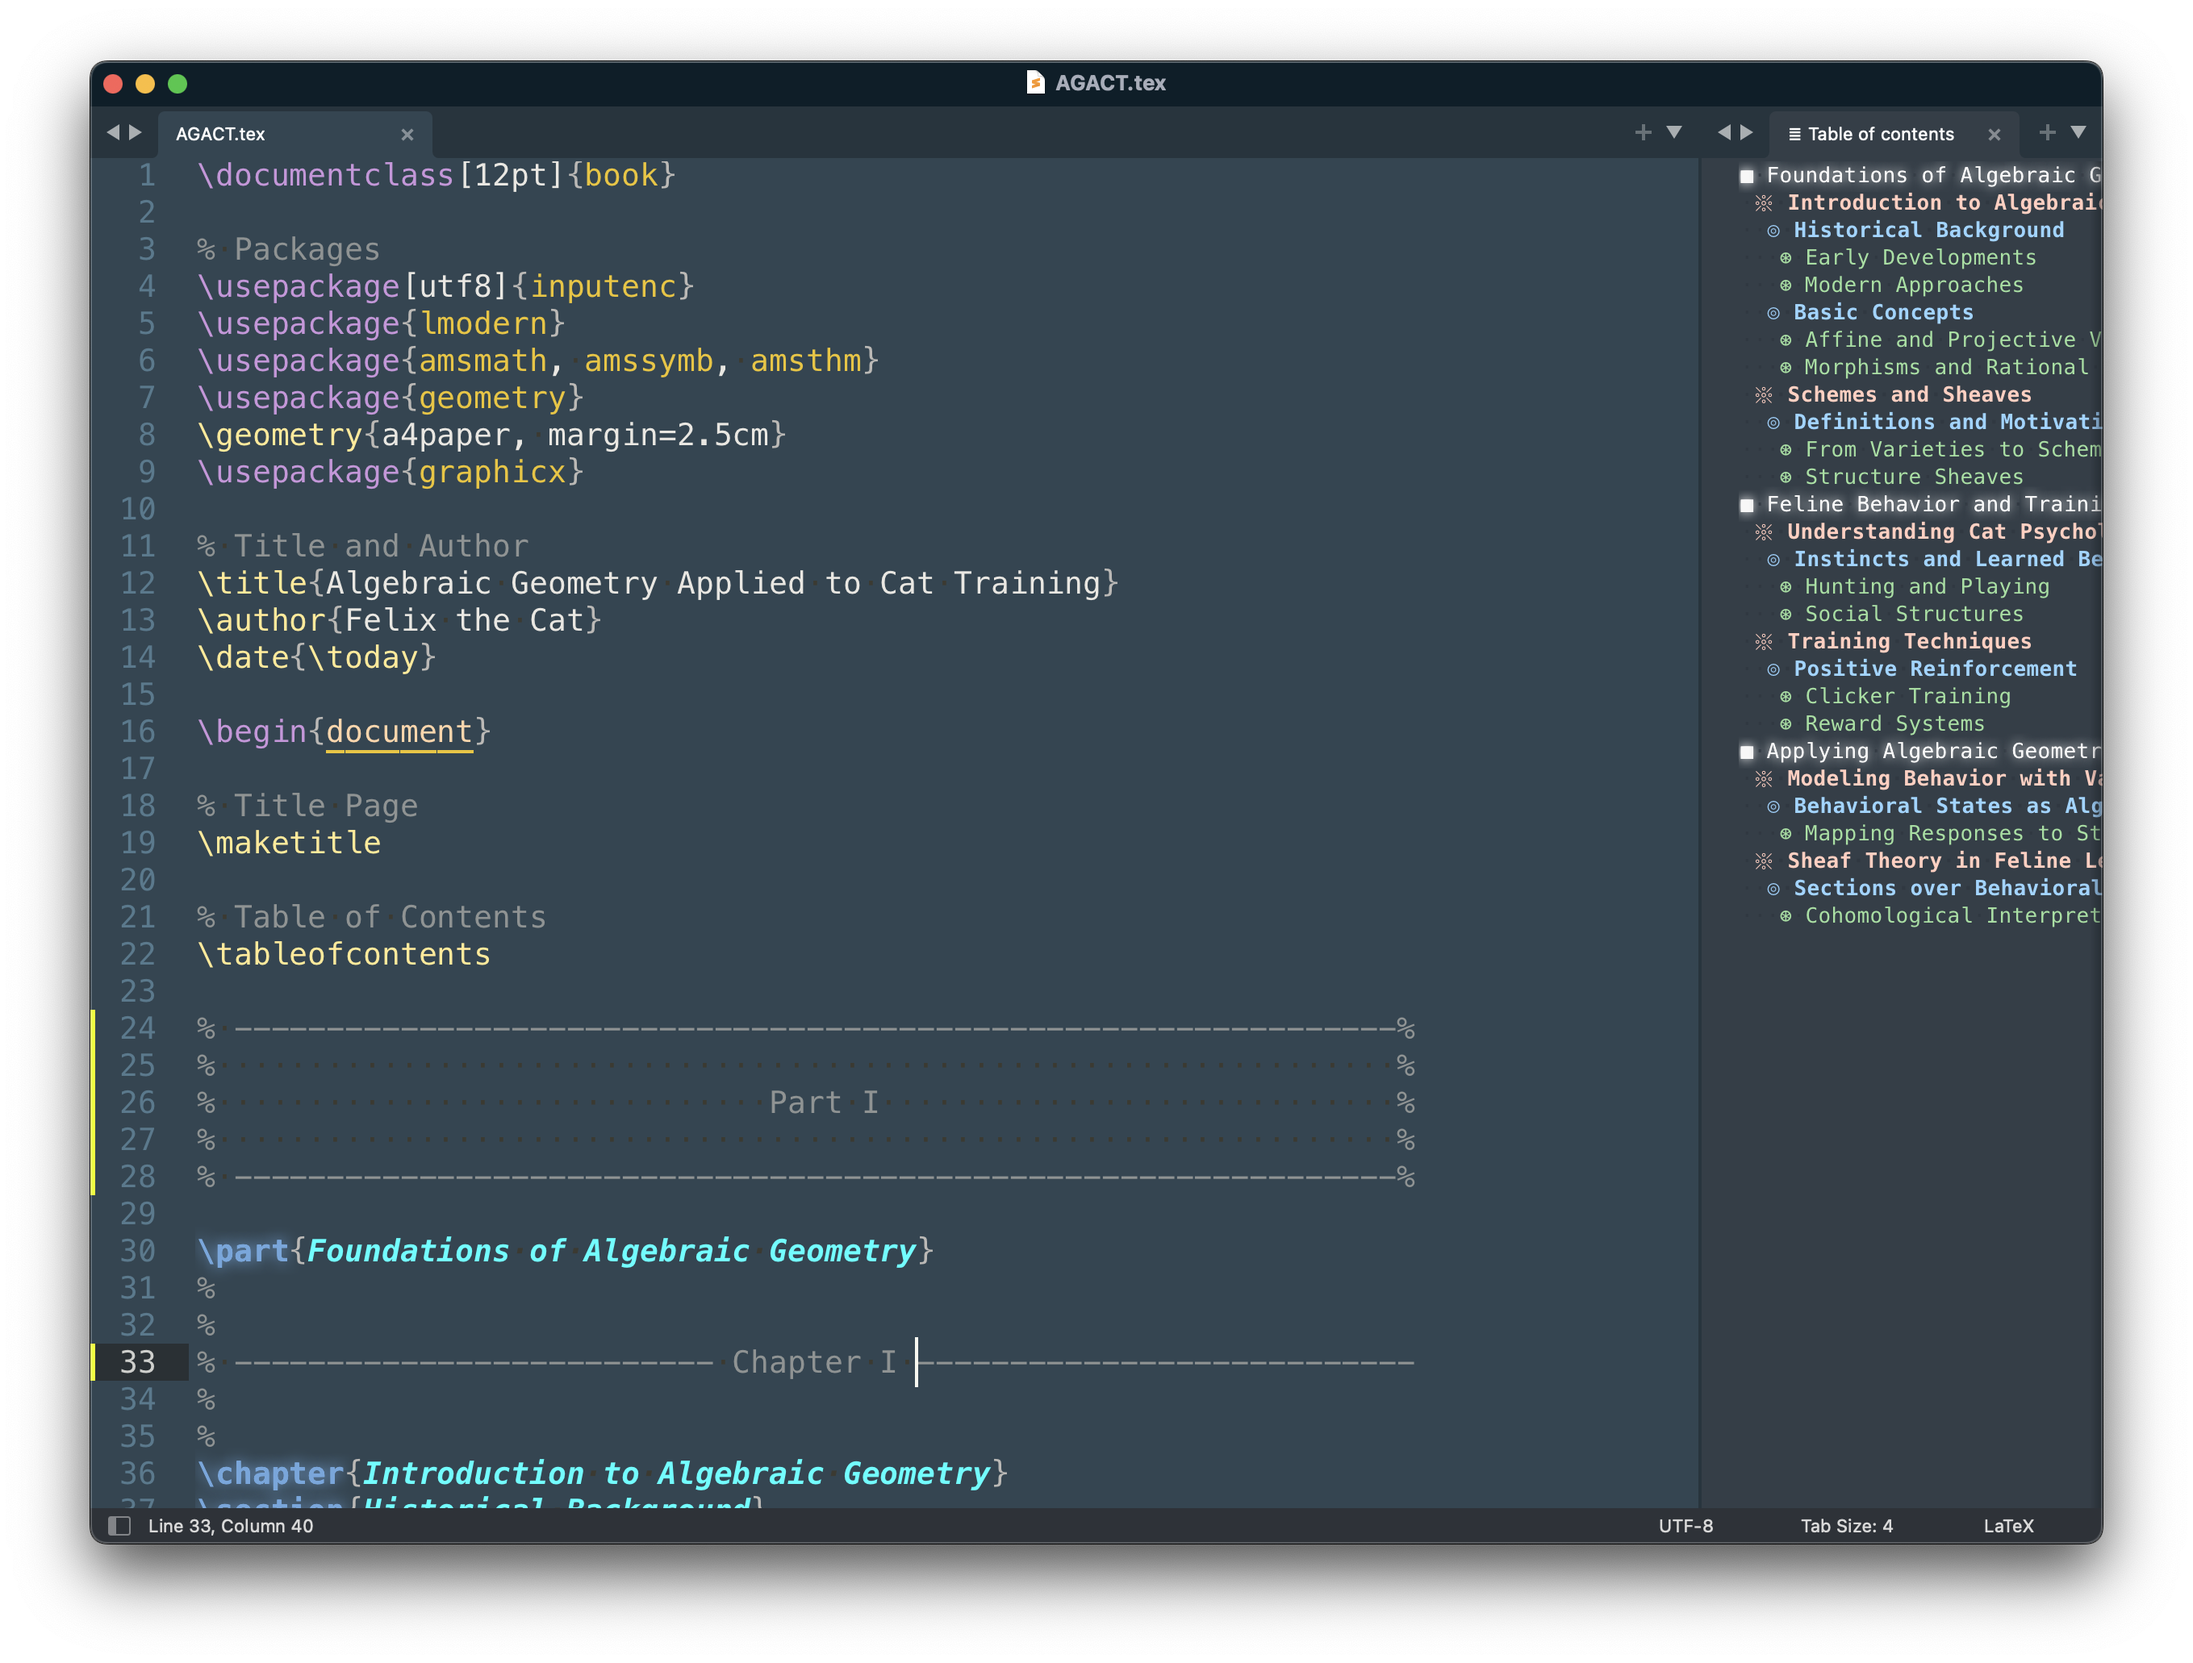
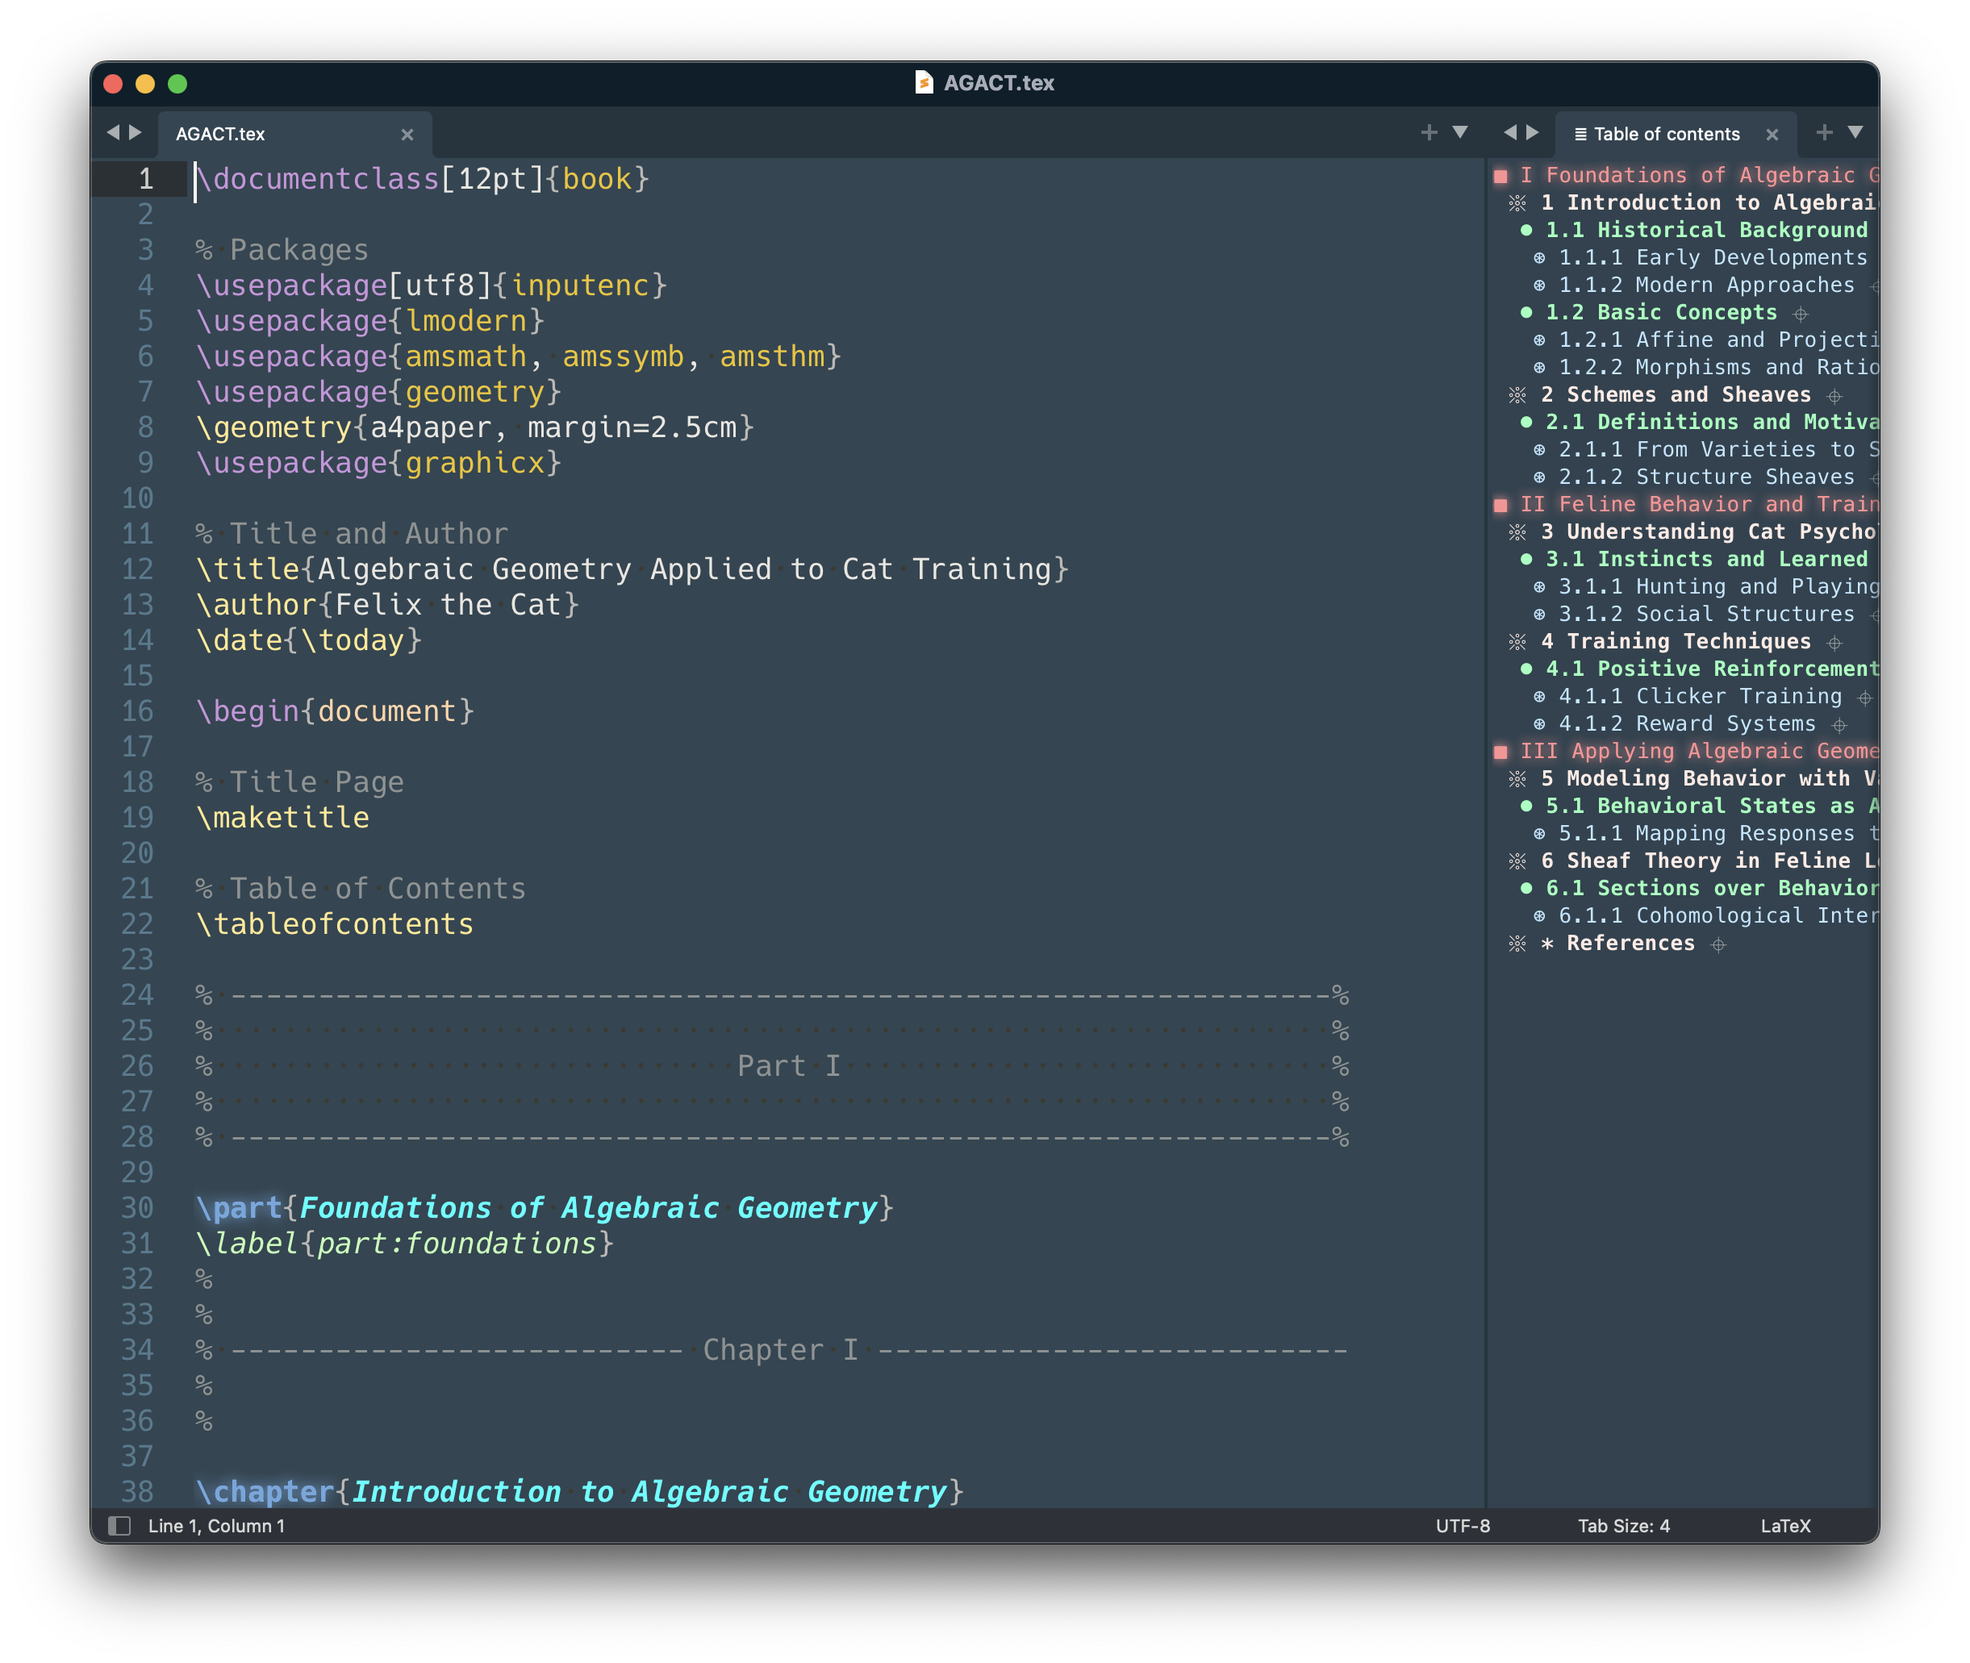
Updated CHANGELOG and README

diff --git a/README.md b/README.md
@@ -35,6 +35,11 @@ It only works with *single-file* LaTeX documents.
 
    Click on a section's *bullet* in the LaTeXOutline tab to copy the section's corresponding label in the clipboard. A message is given in the status bar below to indicate if this label has been found.
 
+### Known issues
+
+- LaTeXOutline does not work with multiple-files LaTeX projects. The commands `\input{other.tex}` are not taken into account.
+- Section numbering does not work with the use of the `cleveref` package or `\texorpdfstring` commands in a section. It is likely that many packages interfering with the `.aux` file can create issues as well.
+
 ### License
 
 This plugin is licensed under the MIT license. In particular, it is provided "as is", without warranty of any kind!

diff --git a/CHANGELOG.md b/CHANGELOG.md
@@ -1,5 +1,14 @@
 ## LaTeXOutline for Sublime Text -- Changelog
 
+#### Version 2.1
+
+- Adds a second outline containing the labels in addition to the table of contents.
+- Adds two buttons (`❐` and `⌖`) to copy the label to the clipboard and to take a look to a part of the file without moving the caret.
+- Adds section numbers and label references by parsing the .aux file (experimental).
+- Now also considers \section*{...} etc.
+- Corrects a bug occurring when two sections have the same name.
+
+
 #### Version 2.0
 
 - Adds the detection of `part`, `chapter`, `paragraph` and `frametitle` sectioning commands.
